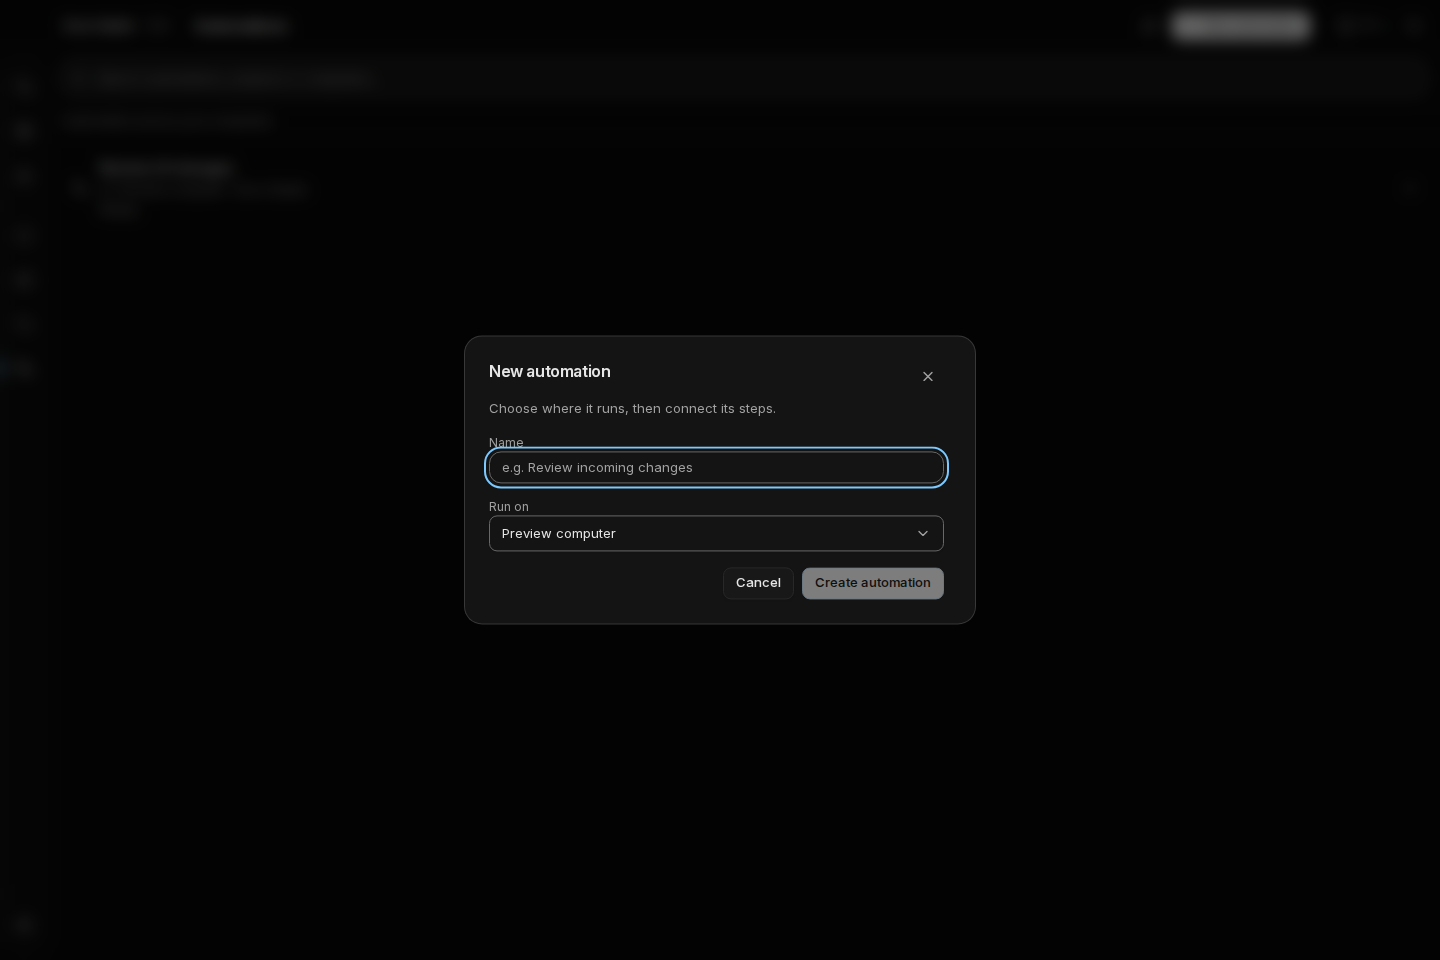
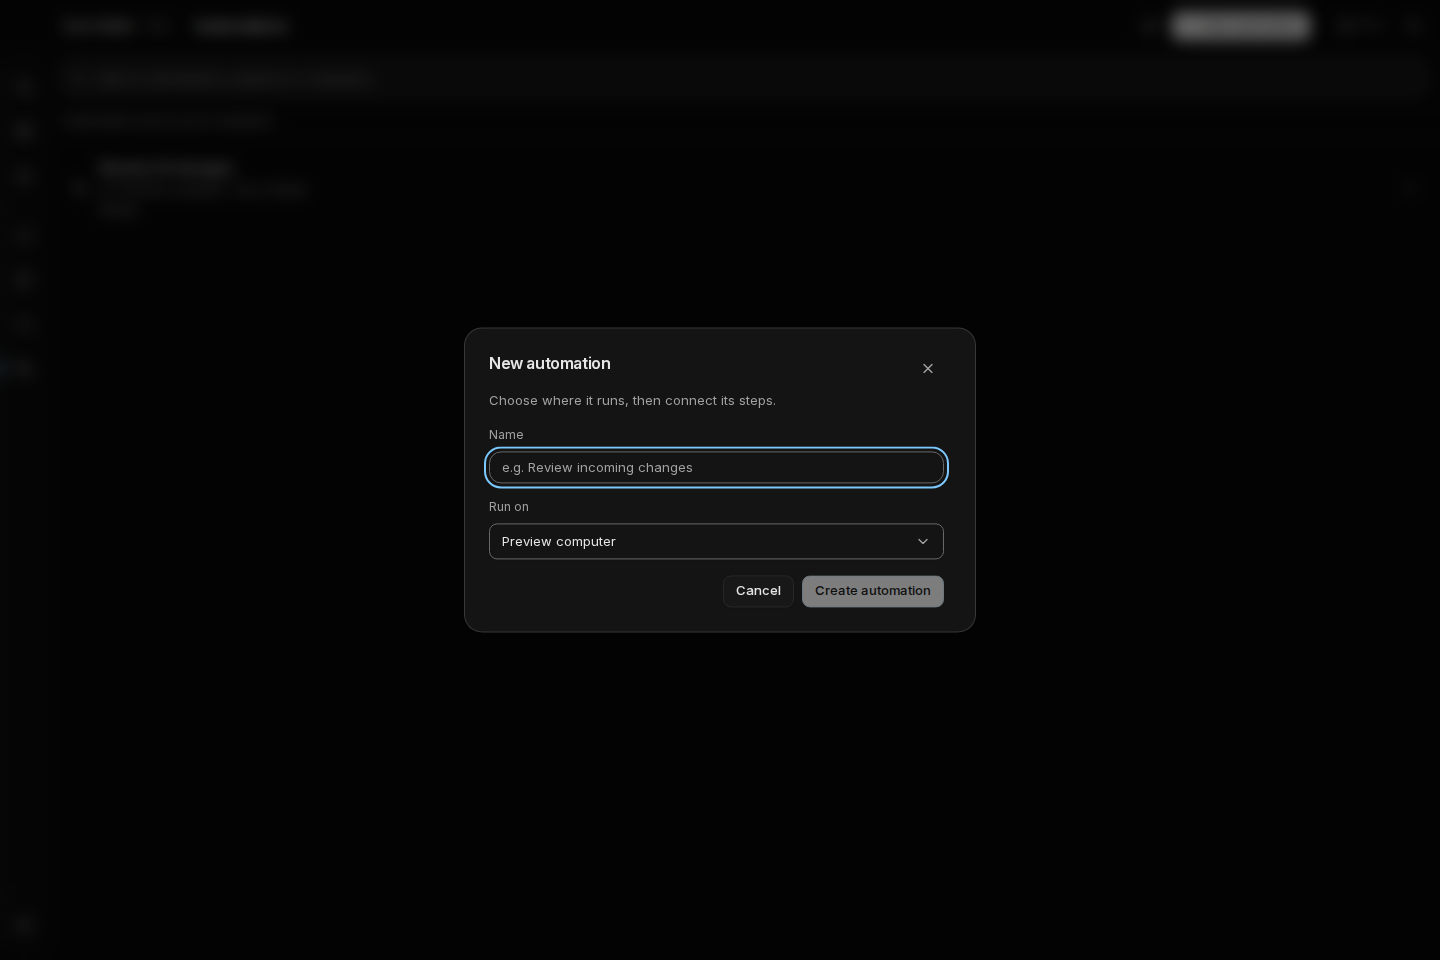
fix(jobs): separate automation labels from focused fields

Changed region(s): [[0.3438, 0.5312, 0.6562, 0.6562], [0.3438, 0.375, 0.5312, 0.4688]]

diff --git a/packages/extension-jobs/src/view.tsx b/packages/extension-jobs/src/view.tsx
@@ -413,7 +413,7 @@ export default function JobsView({ entityId }: StudioViewProps) {
         <DialogContent>
           <DialogTitle>New automation</DialogTitle>
           <DialogDescription>Choose where it runs, then connect its steps.</DialogDescription>
-          <label className="space-y-2 text-xs text-muted-foreground">
+          <label className="grid gap-2 text-xs text-muted-foreground">
             <span>Name</span>
             <Input
               autoFocus
@@ -423,7 +423,7 @@ export default function JobsView({ entityId }: StudioViewProps) {
               disabled={busy}
             />
           </label>
-          <label className="space-y-2 text-xs text-muted-foreground">
+          <label className="grid gap-2 text-xs text-muted-foreground">
             <span>Run on</span>
             <ChoicePicker
               aria-label="Automation computer"

diff --git a/docs/ui-polish/README.md b/docs/ui-polish/README.md
@@ -60,6 +60,9 @@ worker, renderer and WASM with a local WebSocket replay. Captures wait for rende
 its `git status` text is sample data. These previews do not verify live Electron browser
 integrations or real provider/account connections.
 
+The New automation dialog includes a subsequent verified label-spacing correction in both themes.
+The frozen gallery37 reviews predate that two-field adjustment.
+
 Council review is **in progress**. Fresh Opus and Muse conversations assess the current UI without
 past ratings, target scores or historical findings in their briefs. Earlier numeric reviews are
 historical evidence, not approval of this redesign. See [council.json](council.json) for the record.
